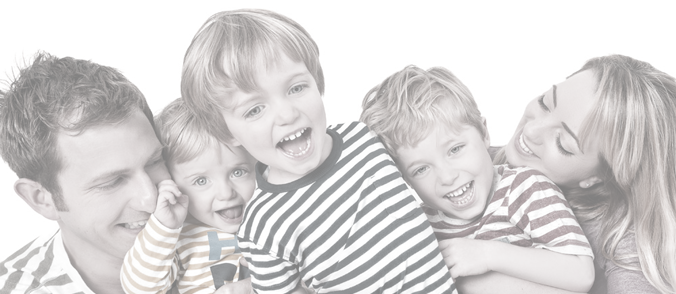
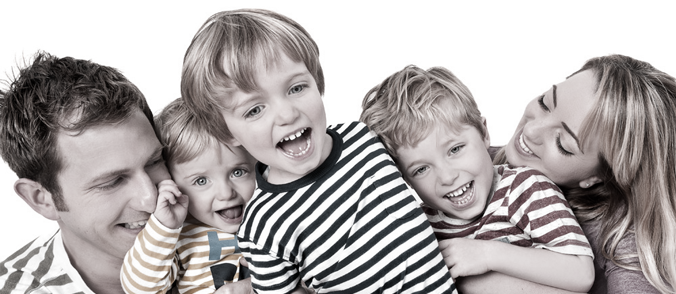
lab5: version 2

diff --git a/lab5/IOhandler.js b/lab5/IOhandler.js
@@ -12,6 +12,7 @@ const AdmZip = require("adm-zip");
 const fs = require("fs/promises")
 const PNG = require("pngjs").PNG
 const path = require("path");
+const {createReadStream, createWriteStream} = require("fs")
 
 /**
  * Description: decompress file from given pathIn, write to given pathOut
@@ -34,8 +35,12 @@ const unzip = (pathIn, pathOut) => {
 const readDir = (dir) => {
   return fs.readdir(dir, 'utf8').then((files) => {
     const filesList = files
-    const pngList = filesList.filter((file) => file.includes('.png'))
-    return pngList
+    const pngList = filesList.filter((file) => path.extname(file) === '.png')
+    const pngPathList = pngList.map((file) => path.format({
+      dir: path.basename(dir),
+      base: file
+    }))
+    return pngPathList
   })
 };
 
@@ -48,30 +53,25 @@ const readDir = (dir) => {
  * @return {promise}
  */
 const grayScale = (pathIn, pathOut) => {
-  var fs = require("fs"),
-  PNG = require("pngjs").PNG;
-  const rs = fs.createReadStream(pathIn)
+  const rs = createReadStream(pathIn)
+  const ws = createWriteStream(pathOut)
+  const pt = new PNG({filterType: 4})
 
   rs
-    .pipe(
-      new PNG({
-        filterType: 4,
-      })
-    )
+    .pipe(pt)
     .on("parsed", function () {
       for (var y = 0; y < this.height; y++) {
         for (var x = 0; x < this.width; x++) {
           var idx = (this.width * y + x) << 2;
-
+  
           this.data[idx] = (this.data[idx] + this.data[idx + 1] + this.data[idx + 2]) / 3
           this.data[idx + 1] = (this.data[idx] + this.data[idx + 1] + this.data[idx + 2]) / 3
           this.data[idx + 2] = (this.data[idx] + this.data[idx + 1] + this.data[idx + 2]) / 3
-
-          this.data[idx + 3] = this.data[idx + 3] >> 1;
+  
+          this.data[idx + 3] = this.data[idx + 3] = 255;
         }
       }
-
-      this.pack().pipe(fs.createWriteStream(pathOut));
+      this.pack().pipe(ws);
     });
 };
 

diff --git a/lab5/main.js b/lab5/main.js
@@ -18,7 +18,7 @@ Promise.resolve()
     .then(()=>IOhandler.unzip(zipFilePath, pathUnzipped))
     .then(() => console.log('Extraction operation complete'))
     .then(()=> IOhandler.readDir(pathUnzipped))
-    .then((files) => files.forEach(file => IOhandler.grayScale(path.join(pathUnzipped,file), path.join(pathProcessed,file))))
+    .then((files) => files.forEach(file => IOhandler.grayScale(path.join(__dirname,file), path.join(pathProcessed,path.basename(file)))))
     .then(() => console.log('Grayscale operation complete'))
     .catch((err) => console.log(err))
 
